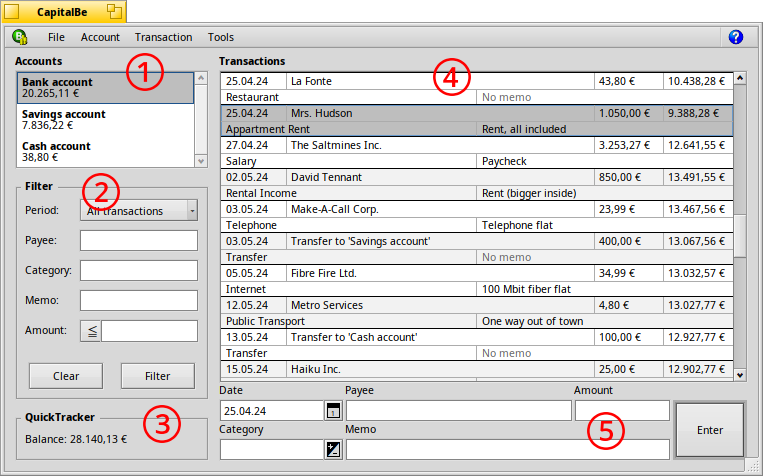
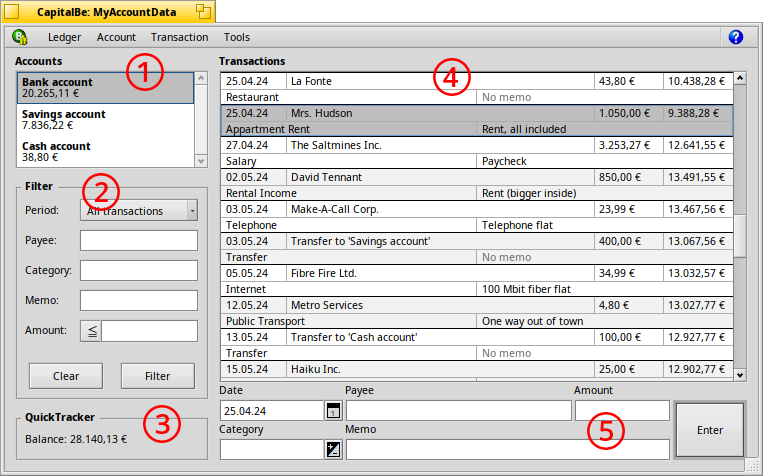
Move "Categories" to "Ledger" menu
* Rename "File" to "Ledger" menu.

* Since CapitalBe isn't limited to a single, fixed "MyAccountsData" file,
  the "Categories" aren't a application wide setting, but are saved per
  "ledger".

* Updated catkeys and translations.

Changed region(s): [[0.0603, 0.0, 0.3316, 0.0882]]

diff --git a/documentation/en/menus.html b/documentation/en/menus.html
@@ -29,9 +29,9 @@
 <tbody><tr class="heading"><td>Index</td></tr>
 <tr class="index"><td>
 	<a href="#menu-app">The app menu</a><br />
-	<a href="#categories"> ┗━ Categories</a><br />
 	<a href="#app-settings"> ┗━ Settings</a><br />
-	<a href="#menu-file">The file menu</a><br />
+	<a href="#menu-ledger">The ledger menu</a><br />
+	<a href="#categories"> ┗━ Categories</a><br />
 	<a href="#menu-account">The account menu</a><br />
 	<a href="#menu-transaction">The transaction menu</a><br />
 	<a href="#schedule"> ┗━ Schedule a transaction</a><br />
@@ -57,22 +57,8 @@
 
 <p><span class="menu">Clear filter</span> resets the filtering and <span class="menu">Go to filter</span> sets the cursor into the first text field of the filter. Use <span class="key">TAB</span> to move to the next, <span class="key">SHIFT</span>&nbsp;<span class="key">TAB</span> for the previous field.</p>
 
-<p>The first two items, <span class="menu">Categories…</span> and <span class="menu">Settings…</span> deserve a bit of further explanation.</p>
+<p>The first item, <span class="menu">Settings…</span> deserves a bit of further explanation.</p>
 <p style="clear:left"></p>
-
-
-<h3>
-<a href="#"><img src="../icons/up.png	" style="border:none;float:right" alt="index" /></a>
-<a id="categories" name="categories">Categories…</a></h3>
-
-<p>Every time you enter a new category when doing a transaction, it is saved and gets suggested as auto-complete when typing the next time. The <span class="menu">Categories…</span> window allows you to manage your categories.</p>
-
-<p style="text-align:center"><img src="./images/categories_window.png" alt="The categories window" /></p>
-
-<p>Categories are sorted into two types: <span class="menu">Income</span> and <span class="menu">Spending</span>.</p>
-<p>You can select an item and <span class="menu">Edit…</span> its name, or <span class="menu">Remove…</span> it completely. In the later case, a new window opens where you have to choose another category for all the transactions that were filed under the one you're about to remove.</p>
-
-<p>You can also <span class="menu">Add…</span> a new category, give it a unique name and choose if it's an <span class="menu">Income category</span> or <span class="menu">Spending category</span>.</p>
 
 
 <h3>
@@ -88,15 +74,31 @@ All other colors are provided by the system and should work perfectly together, 
 
 <h2>
 <a href="#"><img src="../icons/up.png	" style="border:none;float:right" alt="index" /></a>
-<a id="menu-file" name="menu-file">The file menu</a></h2>
+<a id="menu-ledger" name="menu-ledger">The ledger menu</a></h2>
 
-<img src="./images/menu_file.png" class="floatleft" alt="File menu" />
+<img src="./images/menu_ledger.png" class="floatleft" alt="Ledger menu" />
 
 <p>If you want to start a new bookkeeping project (maybe for the spouse), you can create a <span class="menu">New ledger…</span>.</p>
 <p>You switch to another ledger with <span class="menu">Open…</span> Recently opened files are in its submenu.<br />
 You can work on several ledgers side by side. Double-click a ledger file to open it in a new CapitalBe instance. The app will warn you if you try to load an already open ledger. That's normally a bad idea, because the ledger last closed will overwrite the ledger file…</p>
 <p>To share data with other financial software, you can <span class="menu">Import from QIF file…</span> and <span class="menu">Export to QIF file…</span>.</p>
+
+<p>The first item, <span class="menu">Categories…</span> deserves a bit of further explanation.</p>
 <p style="clear:left"></p>
+
+
+<h3>
+<a href="#"><img src="../icons/up.png	" style="border:none;float:right" alt="index" /></a>
+<a id="categories" name="categories">Categories…</a></h3>
+
+<p>Every time you enter a new category when doing a transaction, it is saved and gets suggested as auto-complete when typing the next time. The <span class="menu">Categories…</span> window allows you to manage your categories.</p>
+
+<p style="text-align:center"><img src="./images/categories_window.png" alt="The categories window" /></p>
+
+<p>Categories are sorted into two types: <span class="menu">Income</span> and <span class="menu">Spending</span>.</p>
+<p>You can select an item and <span class="menu">Edit…</span> its name, or <span class="menu">Remove…</span> it completely. In the later case, a new window opens where you have to choose another category for all the transactions that were filed under the one you're about to remove.</p>
+
+<p>You can also <span class="menu">Add…</span> a new category, give it a unique name and choose if it's an <span class="menu">Income category</span> or <span class="menu">Spending category</span>.</p>
 
 
 <h2>

diff --git a/src/MainWindow.cpp b/src/MainWindow.cpp
@@ -125,8 +125,6 @@ MainWindow::MainWindow(BRect frame, BPath lastFile)
 
 	BMenu* menu = new BMenu("");
 	menu->AddItem(new BMenuItem(
-		B_TRANSLATE("Categories" B_UTF8_ELLIPSIS), new BMessage(M_SHOW_CATEGORY_WINDOW)));
-	menu->AddItem(new BMenuItem(
 		B_TRANSLATE("Settings" B_UTF8_ELLIPSIS), new BMessage(M_SHOW_OPTIONS_WINDOW), ','));
 	menu->AddSeparatorItem();
 	menu->AddItem(new BMenuItem(B_TRANSLATE("Go to filter"), new BMessage(M_FOCUS_FILTER), 'F'));
@@ -147,8 +145,11 @@ MainWindow::MainWindow(BRect frame, BPath lastFile)
 	iconMenu = new IconMenuItem(menu, NULL, kApplicationSignature, B_MINI_ICON);
 	bar->AddItem(iconMenu);
 
-	menu = new BMenu(B_TRANSLATE("File"));
+	menu = new BMenu(B_TRANSLATE("Ledger"));
 
+	menu->AddItem(new BMenuItem(
+		B_TRANSLATE("Categories" B_UTF8_ELLIPSIS), new BMessage(M_SHOW_CATEGORY_WINDOW)));
+	menu->AddSeparatorItem();
 	menu->AddItem(
 		new BMenuItem(B_TRANSLATE("New ledger" B_UTF8_ELLIPSIS), new BMessage(M_FILE_NEW)));
 	BMenuItem* openItem
